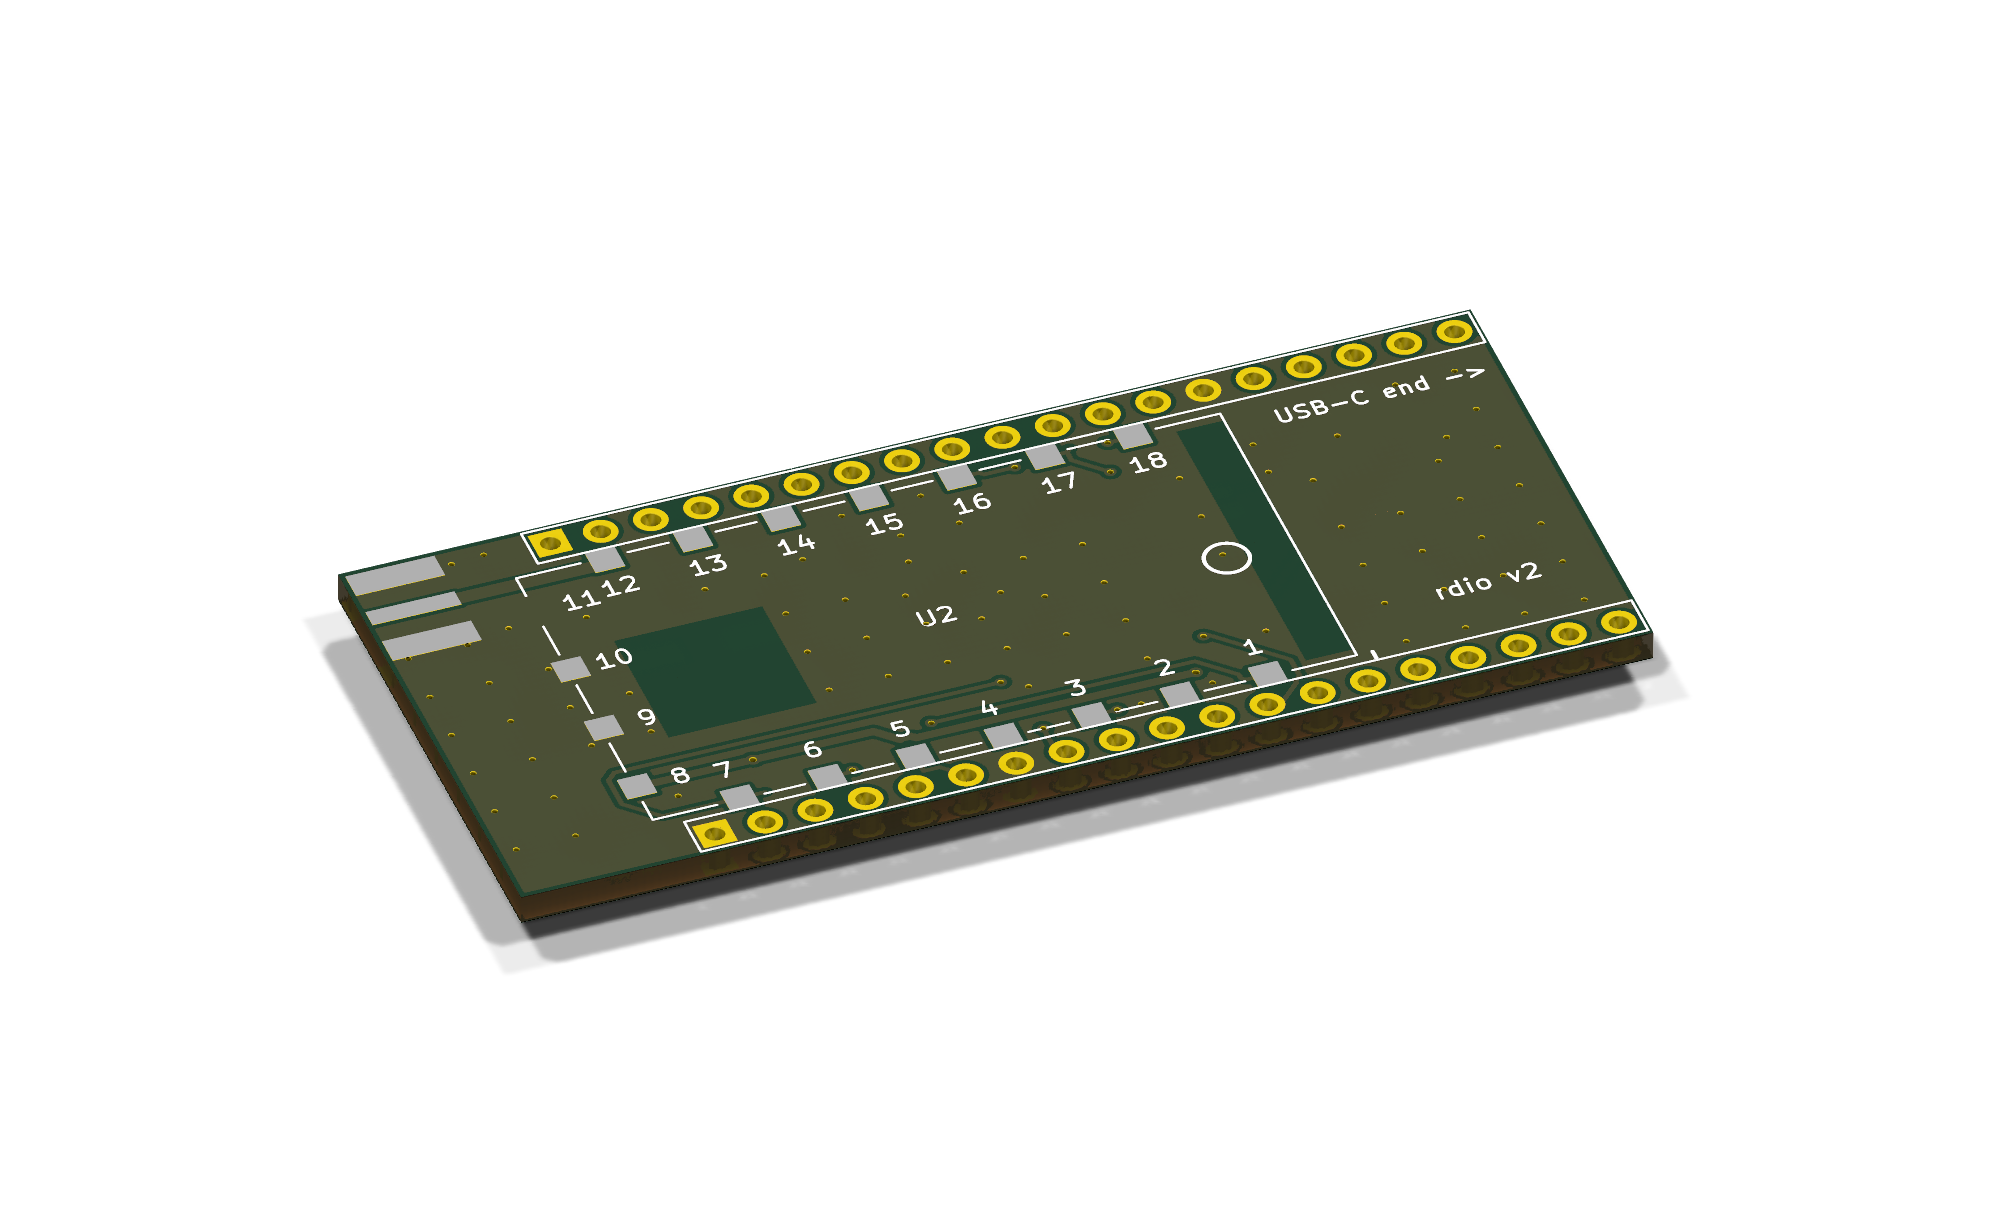
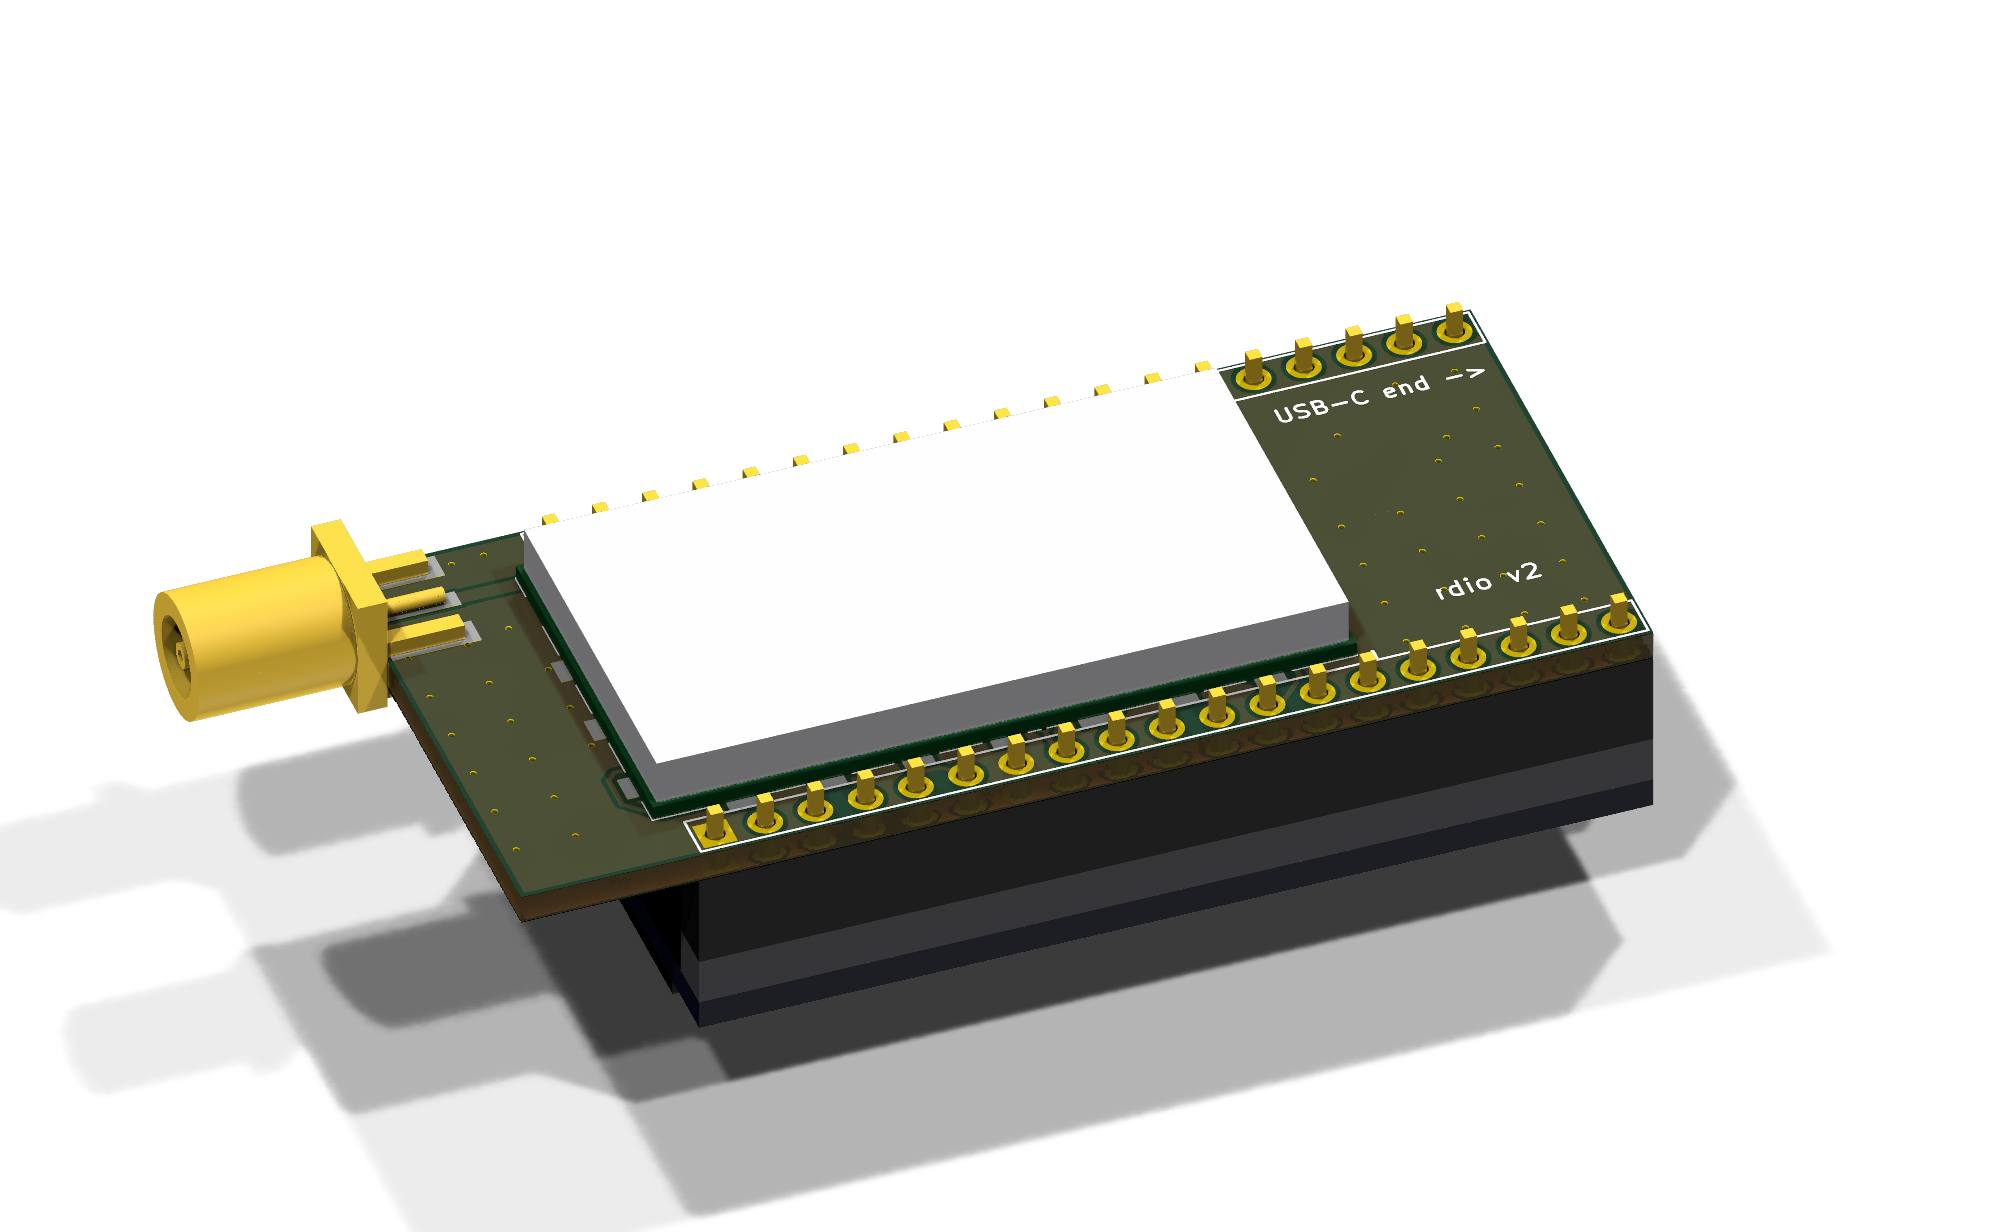
radio 3D model: SMA jack rebuilt (faces outward, hollow barrel with recessed insulator and socket contact); bottom picture shows the SA818S module
- gen_3d_placeholders.py now writes the SMA model; the old one had all cylinder faces inverted (black and hollow in KiCad) and a black disc over the barrel front
- rdio-pcb-bottom.png rendered with the parts switched on (module, SMA, DevKit stack); both pictures regenerated
- tools README and design notes: render commands and model description

Changed region(s): [[0.0622, 0.2468, 0.8715, 0.987]]

diff --git a/hardware/radio/tools/gen_3d_placeholders.py b/hardware/radio/tools/gen_3d_placeholders.py
@@ -3,10 +3,12 @@
                                    sockets plugged onto them, the ESP32 DevKit below them
                                    (component side down: module, antenna end and USB-C hang below the DevKit board)
   DRA818_SA818.wrl               : the SA818S module (35.6 x 19 x 3.2 mm) on the top side
+  SMA_KooingTech_SMA-KE_EdgeMount.wrl : SMA jack for the board edge: four legs, centre pin, flange, hollow barrel with the white insulator
+                                   recessed in it and the socket-type centre contact (axis along +x, board edge at x=0)
 Frame = footprint frame: DevKit centre at x=0,y=0, antenna end -x, USB end +x; z=0 is the carrier's top surface, the carrier is 1.6 mm thick.
 Usage: python3 -I hardware/radio/tools/gen_3d_placeholders.py   (edit GAP etc. below, then rebuild with make_pcb.sh --install)
 """
-import os
+import os, math
 HERE = os.path.dirname(os.path.abspath(__file__)); OUT = os.path.join(HERE, "..", "rdio.3dshapes")
 PCB_T = 1.6          # carrier thickness
 HEADER_H = 5.0       # pin header soldered to the carrier
@@ -41,4 +43,43 @@ o = ["#VRML V2.0 utf8", "# SA818S module 35.6 x 19 x 3.2 mm (placeholder shapes)
 box(o, 0, 0, 0.4, 35.6, 19.0, 0.8, GREEN)                                         # module PCB
 box(o, 0, 0, 2.0, 35.0, 18.4, 2.4, SILVER)                                        # shield
 open(os.path.join(OUT, "DRA818_SA818.wrl"), "w").write("\n".join(o) + "\n")
+# ---- SMA edge-mount jack. Faces of the cylinders are written with the outward normal first (the first version had the side faces turned
+# inwards, which showed as a black, hollow part in KiCad's viewer). Axis along +x at (y, z) = (0, 0.45), the board edge at x = 0.
+N = 32
+def ring(r, x, y0, z0): return [(x, y0 + r*math.cos(2*math.pi*k/N), z0 + r*math.sin(2*math.pi*k/N)) for k in range(N)]
+class Mesh:
+    def __init__(self): self.pts = []; self.faces = []
+    def add(self, ps):
+        i = len(self.pts); self.pts += ps; return list(range(i, i + len(ps)))
+    def tube(self, r, x0, x1, y0, z0, outward=True):          # side surface
+        a, b = self.add(ring(r, x0, y0, z0)), self.add(ring(r, x1, y0, z0))
+        for k in range(N):
+            k2 = (k + 1) % N
+            self.faces.append([a[k], a[k2], b[k2], b[k]] if outward else [a[k], b[k], b[k2], a[k2]])
+    def disc(self, r, x, y0, z0, plus=True, r_in=0.0):        # flat face towards +x (plus) or -x
+        o = self.add(ring(r, x, y0, z0))
+        if r_in == 0: self.faces.append(o if plus else o[::-1]); return
+        i = self.add(ring(r_in, x, y0, z0))
+        for k in range(N):
+            k2 = (k + 1) % N
+            f = [o[k], o[k2], i[k2], i[k]]
+            self.faces.append(f if plus else f[::-1])
+    def write(self, out, c, solid=True):
+        pts = ", ".join(f"{x:.4f} {y:.4f} {z:.4f}" for x, y, z in self.pts)
+        idx = ", ".join(", ".join(map(str, f)) + ", -1" for f in self.faces)
+        out.append(f"Shape {{ {mat(c)} geometry IndexedFaceSet {{ solid {'TRUE' if solid else 'FALSE'} creaseAngle 0.5 coord Coordinate {{ point [ {pts} ] }} coordIndex [ {idx} ] }} }}")
+AY, AZ = 0.0, 0.45
+WHITE = (0.95, 0.95, 0.92); BRASS = (0.83, 0.69, 0.22)
+o = ["#VRML V2.0 utf8", "# SMA female edge mount (KooingTech SMA-KE type), mm, generated by tools/gen_3d_placeholders.py from the generic SMA-KE drawing"]
+for yy in (-2.55, 2.55):
+    box(o, -2.0, yy, 0.45, 4.0, 0.9, 0.9, BRASS)                                  # legs on the top pads
+    box(o, -2.0, yy, -2.05, 4.0, 0.9, 0.9, BRASS)                                 # legs on the bottom pads
+m = Mesh(); m.tube(0.4, -4.0, 0.0, AY, AZ); m.disc(0.4, -4.0, AY, AZ, False); m.disc(0.4, 0.0, AY, AZ, True); m.write(o, BRASS)   # centre pin on the RF pad
+box(o, 0.75, 0.0, AZ, 1.5, 6.5, 6.5, BRASS)                                       # flange
+m = Mesh(); m.tube(3.17, 1.5, 9.5, AY, AZ); m.disc(3.17, 9.5, AY, AZ, True, r_in=2.05)                                           # barrel and its front ring
+m.tube(2.05, 8.5, 9.5, AY, AZ, outward=False); m.write(o, BRASS)                                                                  # bore
+m = Mesh(); m.disc(2.05, 8.5, AY, AZ, True); m.write(o, WHITE)                    # insulator, recessed 1 mm
+m = Mesh(); m.tube(0.65, 8.5, 9.3, AY, AZ); m.disc(0.65, 9.3, AY, AZ, True, r_in=0.3); m.tube(0.3, 8.7, 9.3, AY, AZ, outward=False); m.write(o, BRASS)   # centre contact (socket)
+m = Mesh(); m.disc(0.3, 8.7, AY, AZ, True); m.write(o, DARK)                      # bottom of the contact's hole
+open(os.path.join(OUT, "SMA_KooingTech_SMA-KE_EdgeMount.wrl"), "w").write("\n".join(o) + "\n")
 print("written to", os.path.abspath(OUT))

diff --git a/hardware/radio/tools/README.md b/hardware/radio/tools/README.md
@@ -5,7 +5,7 @@ These scripts produce `hardware/radio/rdio.kicad_sch` and `hardware/radio/rdio.k
 | file | what it does |
 |---|---|
 | `gen_schematic.py` | writes the schematic (direct pin-to-pin wiring, net names on the wires). Reads `base_lib_symbols.txt` (NodeMCU symbol, Device and power symbols) and KiCad's `Connector.kicad_sym` (SMA). Deterministic ids. |
-| `gen_3d_placeholders.py` | writes the simple 3D placeholder models in `hardware/radio/rdio.3dshapes/` (DevKit on its two 5 mm headers and its own 2.5 mm sockets, SA818S). Edit `HEADER_H`, `SOCKET_H` etc. there, then rebuild with `make_pcb.sh --install`. |
+| `gen_3d_placeholders.py` | writes the simple 3D placeholder models in `hardware/radio/rdio.3dshapes/` (DevKit on its two 5 mm headers and its own 2.5 mm sockets, SA818S, SMA jack). Edit `HEADER_H`, `SOCKET_H` etc. there, then rebuild with `make_pcb.sh --install`. |
 | `make_pcb.sh` | the whole PCB pipeline, see below. `--install` copies the result to `hardware/radio/rdio.kicad_pcb`. Default is the 2-layer board; `LAYERS=4` builds a 4-layer variant with a solid GND plane on In1.Cu. |
 | `patch_dsn.py` | patches the Specctra DSN before Freerouting: In1.Cu as GND plane, route only some nets (stage A: the long power nets), router clearance margin. |
 | `build_pcb.py` | netlist -> placed board. **Part placement is the `place` table** (DevKit frame: x right towards the USB end, y down, mm). |
@@ -35,11 +35,11 @@ Things to know:
 
 ## The pictures in `hardware/radio/`
 
-`rdio-pcb-3d.png` (top side, with the DevKit placeholder and the SMA connector; the small parts are hidden under the DevKit) and `rdio-pcb-bottom.png` (bottom side, the bare board with the radio module footprint) are KiCad renders:
+`rdio-pcb-3d.png` (top side, with the DevKit placeholder and the SMA connector; the small parts are hidden under the DevKit) and `rdio-pcb-bottom.png` (bottom side, with the radio module, the SMA connector and the DevKit stack below) are KiCad renders:
 
     cd hardware/radio
-    KICAD_CONFIG_HOME=<dir with a copy of your KiCad 10.0 settings in which show_footprints_insert and show_footprints_normal are true in 3d_viewer.json> \
-      kicad-cli pcb render --side top --quality high --preset follow_pcb_editor --width 2000 --height 1250 --rotate '-50,0,-20' -o rdio-pcb-3d.png rdio.kicad_pcb
-    kicad-cli pcb render --side bottom --quality high --width 2000 --height 1250 --rotate '-50,0,-20' -o rdio-pcb-bottom.png rdio.kicad_pcb
+    export KICAD_CONFIG_HOME=<dir with a copy of your KiCad 10.0 settings in which show_footprints_insert and show_footprints_normal are true in 3d_viewer.json>
+    kicad-cli pcb render --side top --quality high --preset follow_pcb_editor --width 2000 --height 1250 --rotate '-50,0,-20' -o rdio-pcb-3d.png rdio.kicad_pcb
+    kicad-cli pcb render --side bottom --quality high --preset follow_pcb_editor --width 2000 --height 1250 --rotate '-50,0,-20' -o rdio-pcb-bottom.png rdio.kicad_pcb
 
-`kicad-cli` takes the 3D viewer's settings from the user configuration, and by default the parts are switched off there; the bottom picture is meant to be the bare board, so it needs no change. The models are the placeholders from `gen_3d_placeholders.py` and KiCad's own capacitor, resistor and inductor models.
+`kicad-cli` takes the 3D viewer's settings from the user configuration, and by default the parts are switched off there, so both pictures need the copy with them switched on. The models are the placeholders from `gen_3d_placeholders.py` and KiCad's own capacitor, resistor and inductor models.

diff --git a/hardware/radio/design-notes.md b/hardware/radio/design-notes.md
@@ -95,7 +95,7 @@ Use a 50 Ω antenna or a dummy load on pin 12 **before the first transmission**.
 
 ## 3D placeholders (`rdio.3dshapes`, generated by `tools/gen_3d_placeholders.py`)
 
-- Simple boxes to judge the finished board in KiCad's 3D viewer, not accurate models. DevKit model: two 1 × 19 pin headers (black, 2.54 × 48.26 mm, 5 mm tall) soldered to the carrier with their pins through it, the DevKit's own 2.5 mm sockets (grey, same footprint) plugged onto them (5 + 2.5 = the 7.5 mm gap), the DevKit board (48.26 × 25.4 × 1.6 mm) on top of the sockets with its module (19 × 18 × 3.1 mm shield plus the 6.5 mm antenna end) and USB-C (7.3 × 8.94 × 3.2 mm) standing on it. SA818S model: 35.6 × 19 mm PCB plus a 35 × 18.4 mm shield, 3.2 mm tall.
+- Simple boxes to judge the finished board in KiCad's 3D viewer, not accurate models. DevKit model: two 1 × 19 pin headers (black, 2.54 × 48.26 mm, 5 mm tall) soldered to the carrier with their pins through it, the DevKit's own 2.5 mm sockets (grey, same footprint) plugged onto them (5 + 2.5 = the 7.5 mm gap), the DevKit board (48.26 × 25.4 × 1.6 mm) on top of the sockets with its module (19 × 18 × 3.1 mm shield plus the 6.5 mm antenna end) and USB-C (7.3 × 8.94 × 3.2 mm) standing on it. SA818S model: 35.6 × 19 mm PCB plus a 35 × 18.4 mm shield, 3.2 mm tall. SMA model: four legs, centre pin, 6.5 mm square flange and a 6.35 mm barrel that is hollow, with the white insulator recessed 1 mm and a socket-type centre contact (all faces point outwards; the first version had them inverted, which showed as a black, hollow part).
 - Assumptions: header 5 mm plus socket 2.5 mm (measured on the real DevKit), the DevKit board directly above the sockets, USB-C 1 mm beyond the board edge. The position of the DevKit's parts is not checked.
 
 ## Interference between the ESP32 and the SA818S (copper as a shield)

diff --git a/README.md b/README.md
@@ -57,11 +57,11 @@ A 57.4 × 25.5 mm two-layer board for an ESP32 38-pin DevKit (NodeMCU-32S style)
 <table>
   <tr>
     <td align="center"><img src="hardware/radio/rdio-pcb-3d.png" width="420" alt="Top side of the carrier board with the DevKit on top and the SMA jack"></td>
-    <td align="center"><img src="hardware/radio/rdio-pcb-bottom.png" width="420" alt="Bottom side of the carrier board with the radio module footprint and the DevKit pin rows"></td>
+    <td align="center"><img src="hardware/radio/rdio-pcb-bottom.png" width="420" alt="Bottom side of the carrier board with the radio module, the SMA jack and the DevKit below"></td>
   </tr>
   <tr>
     <td align="center">Top: DevKit (the audio and supply parts are under it), SMA jack</td>
-    <td align="center">Bottom: radio module footprint, DevKit pin rows</td>
+    <td align="center">Bottom: radio module, SMA jack, DevKit pin rows</td>
   </tr>
 </table>
 
